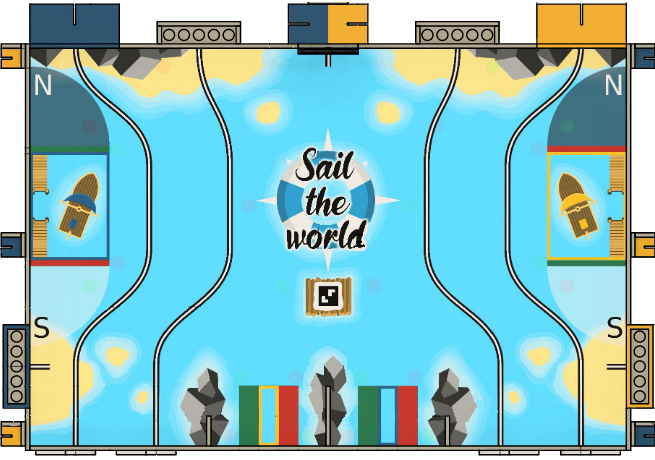
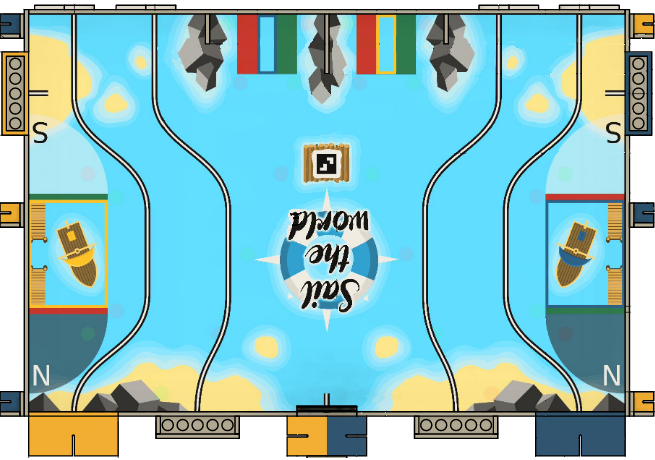
Ajout des gobelets et du robot principal dans l'affichage du debugger

diff --git a/Debugger/src/main/java/graphique/TableVisualisation.java b/Debugger/src/main/java/graphique/TableVisualisation.java
@@ -1,19 +1,29 @@
 package graphique;
 
+import data.table.MobileCircularObstacle;
+import data.table.Obstacle;
+import data.table.StillCircularObstacle;
+import utils.math.*;
+import utils.math.Rectangle;
+import utils.math.Shape;
+
 import javax.imageio.ImageIO;
 import javax.swing.*;
 import java.awt.*;
 import java.io.File;
 import java.io.IOException;
-import java.lang.Double;
+import java.util.ArrayList;
+
 
 public class TableVisualisation extends JPanel {
+
+    /* ============ Affichage de la table et des robots  ============= */
 
     //TODO: changer le chemin de l'image (ide qui comprend pas le chemin raccourci)
 
     String FileTableImage = "/home/yasmine/TechTheTide-HighLevel/Debugger/src/main/java/graphique/ressources/tableComplete2020Fond.png";
+    String FilePrincipalImage = "/home/yasmine/TechTheTide-HighLevel/Debugger/src/main/java/graphique/ressources/PrincipalVuDessus.png";
 
-    //Mise à jour de la position du robot
 
     private int posX = 31;
     private int posY = 445;
@@ -34,16 +44,10 @@ public class TableVisualisation extends JPanel {
         this.posY = posY;
     }
 
-    public void paintComponent(Graphics g){
+    public void paintComponent(Graphics g) {
 
         /**DESSIN DE LA TABLE DE JEU**/
 
-        /**La taille de l'image est 802x538
-         Le bord de la table en haut à gauche est aux coordonnées (31,48)
-         Le bord de la table en bas à gauche est aux coordonnées (31,445)
-         Le bord de la table en bas à droite est aux cordonnées (625,445)
-         Le bord de la table en haut à droite est aux coordonnées (625,48)
-         La surface de jeu fait donc 594x397**/
 
         try {
             Image img = ImageIO.read(new File(FileTableImage));
@@ -54,21 +58,286 @@ public class TableVisualisation extends JPanel {
 
         /**VISUALISATION DE NOTRE ROBOT (celui qui joue) **/
 
-        g.setColor(Color.yellow);
-        g.fillOval(posX,posY,60,60);
+        try {
+            Image principal = ImageIO.read(new File(FilePrincipalImage));
+            g.drawImage(principal, posX, posY, this.getWidth() / 4, this.getHeight() / 4, this);
+        } catch (IOException e) {
+            e.printStackTrace();
+        }
 
-        /**Affichage des gobelets rouges**/
+        /** Visualisation des gobelets sur la table**/
 
+        initGobeletsRouges();
+        initGobeletsVerts();
+        drawRougeGobelets(g);
+        drawVertGobelets(g);
 
-
-        /**Affichage des gobelets verts**/
-
-
-
-
-      /**  Font font = new Font("Liberation", Font.PLAIN, 30);
-        g.setFont(font);
-        g.setColor(Color.blue);
-        g.drawString("Logs robot", 3*getWidth()/4, getHeight()/10); **/
     }
+
+    /* ============ Traitement des gobelets sur la table ============= */
+
+
+    /**
+     * La taille de l'image est 802x538
+     * Le bord de la table en haut à gauche est aux coordonnées (31,48)
+     * Le bord de la table en bas à gauche est aux coordonnées (31,445)
+     * Le bord de la table en bas à droite est aux cordonnées (625,445)
+     * Le bord de la table en haut à droite est aux coordonnées (625,48)
+     * La surface de jeu fait donc 594x397
+     **/
+
+
+    private final int TABLE_PIXEL_WIDTH = 594; //in pixels
+    private final int TABLE_PIXEL_HEIGHT = 397; //in pixels
+    private final int WIDTH_TABLE = 3000;      //in millimeters
+    private final int HEIGHT_TABLE = 2000;     //in millimeters
+    private final int GobeletRay = 53 ;
+
+
+    private final  ArrayList<Obstacle> GobeletsRouge = new ArrayList<>() ;
+    private final ArrayList<Obstacle> GobeletsVert = new ArrayList<>();
+
+    public void addGobeletRouge(Obstacle obstacle) {
+        synchronized (GobeletsRouge) {
+            GobeletsRouge.add(obstacle);
+        }
+    }
+
+    public void addGobeletVert(Obstacle obstacle) {
+        synchronized (GobeletsVert) {
+            GobeletsVert.add(obstacle);
+        }
+    }
+
+    public void deleteGobeletRouge(Obstacle obstacle) {
+        synchronized (GobeletsRouge) {
+            if (GobeletsRouge.contains(obstacle)) {
+                GobeletsRouge.remove(GobeletsRouge.indexOf(obstacle));
+            }
+        }
+    }
+
+    public void deleteGobeletVert(Obstacle obstacle) {
+        synchronized (GobeletsVert) {
+            if (GobeletsVert.contains(obstacle)) {
+                GobeletsVert.remove(GobeletsVert.indexOf(obstacle));
+            }
+        }
+    }
+
+    private void drawRougeGobelets(Graphics g) {
+        for (Obstacle obstacle : this.GobeletsRouge) {
+            utils.math.Shape shape = obstacle.getShape();
+            Vec2 centerOnTable = shape.getCenter();
+            Vec2 center = transformTableCoordsToInterfaceCoords(centerOnTable);
+            float diameter = transformTableDistanceToInterfaceDistance(((Circle) shape).getRadius() * 2);
+            g.setColor(Color.RED);
+            g.fillOval(center.getX() - Math.round(diameter / 2), center.getY() - Math.round(diameter / 2), Math.round(diameter), Math.round(diameter));
+        }
+    }
+
+    private void drawVertGobelets(Graphics g) {
+        for (Obstacle obstacle : this.GobeletsVert) {
+            utils.math.Shape shape = obstacle.getShape();
+            Vec2 centerOnTable = shape.getCenter();
+            Vec2 center = transformTableCoordsToInterfaceCoords(centerOnTable);
+            float diameter = transformTableDistanceToInterfaceDistance(((Circle) shape).getRadius() * 2);
+            g.setColor(Color.GREEN);
+            g.fillOval(center.getX() - Math.round(diameter / 2), center.getY() - Math.round(diameter / 2), Math.round(diameter), Math.round(diameter));
+        }
+    }
+
+
+public void initGobeletsRouges() {
+
+    Vec2 positionRouge1 = new VectCartesian(300, 1200);
+    Circle formeRouge1 = new Circle(positionRouge1, GobeletRay);
+    Obstacle rouge1 = new StillCircularObstacle(formeRouge1);
+    this.addGobeletRouge(rouge1);
+
+    Vec2 positionRouge2 = new VectCartesian(450, 510);
+    Circle formeRouge2 = new Circle(positionRouge2, GobeletRay);
+    Obstacle rouge2 = new StillCircularObstacle(formeRouge2);
+    this.addGobeletRouge(rouge2);
+
+
+    Vec2 positionRouge3 = new VectCartesian(950, 400);
+    Circle formeRouge3 = new Circle(positionRouge3, GobeletRay);
+    Obstacle rouge3 = new StillCircularObstacle(formeRouge3);
+    this.addGobeletRouge(rouge3);
+
+
+    Vec2 positionRouge4 = new VectCartesian(1065, 1650);
+    Circle formeRouge4 = new Circle(positionRouge4, GobeletRay);
+    Obstacle verre8 = new StillCircularObstacle(formeRouge4);
+    this.addGobeletRouge(verre8);
+
+    Vec2 positionRouge5 = new VectCartesian(1270, 1200);
+    Circle formeRouge5 = new Circle(positionRouge5, GobeletRay);
+    Obstacle rouge5 = new StillCircularObstacle(formeRouge5);
+    this.addGobeletRouge(rouge5);
+
+    Vec2 positionRouge6 = new VectCartesian(3000 - 1605, 1955);
+    Circle formeRouge6 = new Circle(positionRouge6, GobeletRay);
+    Obstacle rouge6 = new StillCircularObstacle(formeRouge6);
+    this.addGobeletRouge(rouge6);
+
+    Vec2 positionRouge7 = new VectCartesian(1665, 1650);
+    Circle formerouge7 = new Circle(positionRouge7, GobeletRay );
+    Obstacle rouge7 = new StillCircularObstacle(formerouge7);
+    this.addGobeletRouge(rouge7);
+
+    Vec2 positionRouge8 = new VectCartesian(1900, 800);
+    Circle formeRouge8 = new Circle(positionRouge8, GobeletRay );
+    Obstacle rouge8 = new StillCircularObstacle(formeRouge8);
+    this.addGobeletRouge(rouge8);
+
+
+    Vec2 positionRouge9 = new VectCartesian(1995, 1955);
+    Circle formeRouge9 = new Circle(positionRouge9, GobeletRay );
+    Obstacle rouge9 = new StillCircularObstacle(formeRouge9);
+    this.addGobeletRouge(rouge9);
+
+
+    Vec2 positionRouge10 = new VectCartesian(2330, 100);
+    Circle formeRouge10 = new Circle(positionRouge10, GobeletRay );
+    Obstacle rouge10 = new StillCircularObstacle(formeRouge10);
+    this.addGobeletRouge(rouge10);
+
+
+    Vec2 positionRouge11 = new VectCartesian(2550, 1080);
+    Circle formeRouge11 = new Circle(positionRouge11, GobeletRay );
+    Obstacle rouge11 = new StillCircularObstacle(formeRouge11);
+    this.addGobeletRouge(rouge11);
+
+    Vec2 positionRouge12 = new VectCartesian(2700, 400);
+    Circle formerouge12 = new Circle(positionRouge12, GobeletRay );
+    Obstacle rouge12 = new StillCircularObstacle(formerouge12);
+    this.addGobeletRouge(rouge12);
+
+
+}
+
+
+
+    public void initGobeletsVerts() {
+
+        Vec2 positionVert1 = new VectCartesian(300, 400);
+        Circle formeVert1 = new Circle(positionVert1, GobeletRay);
+        Obstacle vert1 = new StillCircularObstacle(formeVert1);
+        this.addGobeletVert(vert1);
+
+        Vec2 positionVert2 = new VectCartesian(450, 1080);
+        Circle formeVert2 = new Circle(positionVert2, GobeletRay);
+        Obstacle vert2 = new StillCircularObstacle(formeVert2);
+        this.addGobeletVert(vert2);
+
+        Vec2 positionVert3 = new VectCartesian(670, 100);
+        Circle formeVert3 = new Circle(positionVert3, GobeletRay);
+        Obstacle vert3 = new StillCircularObstacle(formeVert3);
+        this.addGobeletVert(vert3);
+
+
+        Vec2 positionVert4 = new VectCartesian(1005, 1955);
+        Circle formeVert4 = new Circle(positionVert4, GobeletRay);
+        Obstacle vert4 = new StillCircularObstacle(formeVert4);
+        this.addGobeletVert(vert4);
+
+        Vec2 positionVert5 = new VectCartesian(1100, 800);
+        Circle formeVert5 = new Circle(positionVert5, GobeletRay);
+        Obstacle vert5 = new StillCircularObstacle(formeVert5);
+        this.addGobeletVert(vert5);
+
+
+        Vec2 positionVert6 = new VectCartesian(3000 - 1665, 1650);
+        Circle formeVert6 = new Circle(positionVert6, GobeletRay);
+        Obstacle vert6 = new StillCircularObstacle(formeVert6);
+        this.addGobeletVert(vert6);
+
+        Vec2 positionVert7 = new VectCartesian(1605, 1955);
+        Circle formeVert7 = new Circle(positionVert7, GobeletRay);
+        Obstacle vert7 = new StillCircularObstacle(formeVert7);
+        this.addGobeletVert(vert7);
+
+        Vec2 positionVert8 = new VectCartesian(1730, 1200);
+        Circle formeVert8 = new Circle(positionVert8, GobeletRay );
+        Obstacle vert8 = new StillCircularObstacle(formeVert8);
+        this.addGobeletVert(vert8);
+
+
+        Vec2 positionVert9 = new VectCartesian(1935, 1650);
+        Circle formeVert9 = new Circle(positionVert9, GobeletRay );
+        Obstacle vert9 = new StillCircularObstacle(formeVert9);
+        this.addGobeletVert(vert9);
+
+        Vec2 positionVert10 = new VectCartesian(2050, 400);
+        Circle formeVert10 = new Circle(positionVert10, GobeletRay );
+        Obstacle vert10 = new StillCircularObstacle(formeVert10);
+        this.addGobeletVert(vert10);
+
+        Vec2 positionVert11 = new VectCartesian(2550, 510);
+        Circle formeVert11 = new Circle(positionVert11, GobeletRay );
+        Obstacle vert11 = new StillCircularObstacle(formeVert11);
+        this.addGobeletVert(vert11);
+
+        Vec2 positionVert12 = new VectCartesian(2700, 1200);
+        Circle formeVert12 = new Circle(positionVert12, GobeletRay );
+        Obstacle vert12 = new StillCircularObstacle(formeVert12);
+        this.addGobeletVert(vert12);
+    }
+
+
+    /* ============ Méthodes de transformation des coordonnées entre la table et la fenêtre graphique ============= */
+
+    /**
+     * Transforme une distance de la table pour qu'elle soit affichée correction sur l'interface
+     */
+    private int transformTableDistanceToInterfaceDistance(int distanceOnTable) {
+        return Math.round(distanceOnTable * (this.TABLE_PIXEL_WIDTH / (float) this.WIDTH_TABLE));
+    }
+
+    /**
+     * Transforme une distance de la table pour qu'elle soit affichée correction sur l'interface
+     */
+    private float transformTableDistanceToInterfaceDistance(float distanceOnTable) {
+        return distanceOnTable * (this.TABLE_PIXEL_WIDTH / (float) this.WIDTH_TABLE);
+    }
+
+    /**
+     * Transforme les coordonnées de la table pour qu'ils soient affichés correction sur l'interface
+     */
+    private Vec2 transformTableCoordsToInterfaceCoords(int xOnTable, int yOnTable) {
+        return new InternalVectCartesian(
+                (xOnTable + (this.WIDTH_TABLE / 2.0f)) * (this.TABLE_PIXEL_WIDTH / (float) this.WIDTH_TABLE),
+                (this.HEIGHT_TABLE - yOnTable) * (this.TABLE_PIXEL_HEIGHT / (float) this.HEIGHT_TABLE)
+        );
+    }
+
+    /**
+     * Transforme les coordonnées de la table pour qu'ils soient affichés correctement sur l'interface
+     */
+    private Vec2 transformTableCoordsToInterfaceCoords(Vec2 positionOnTable) {
+        return transformTableCoordsToInterfaceCoords(positionOnTable.getX(), positionOnTable.getY());
+    }
+
+
+    /**
+     * Transforme les coordonnées de l'interface pour qu'ils correspondent à ceux de la table
+     */
+    private Vec2 transformInterfaceCoordsToTableCoords(int xOnInterface, int yOnInterface) {
+        return new InternalVectCartesian(
+                (xOnInterface - (this.TABLE_PIXEL_WIDTH / 2.0f)) * (this.WIDTH_TABLE / (float) this.TABLE_PIXEL_WIDTH),
+                (this.TABLE_PIXEL_HEIGHT - yOnInterface) * (this.HEIGHT_TABLE / (float) this.TABLE_PIXEL_HEIGHT)
+        );
+    }
+
+    /**
+     * Transforme les coordonnées de l'interface pour qu'ils correspondent à ceux de la table
+     */
+    private Vec2 transformInterfaceCoordsToTableCoords(Vec2 positionOnInterface) {
+        return transformInterfaceCoordsToTableCoords(positionOnInterface.getX(), positionOnInterface.getY());
+    }
+
+
+
 }

diff --git a/Debugger/src/main/java/graphique/MainDebug.java b/Debugger/src/main/java/graphique/MainDebug.java
@@ -2,6 +2,6 @@ package graphique;
 
 public class MainDebug {
     public static void main(String[] args) {
-        FenetreTable debugger = new FenetreTable();
+        new FenetreTable();
     }
 }
